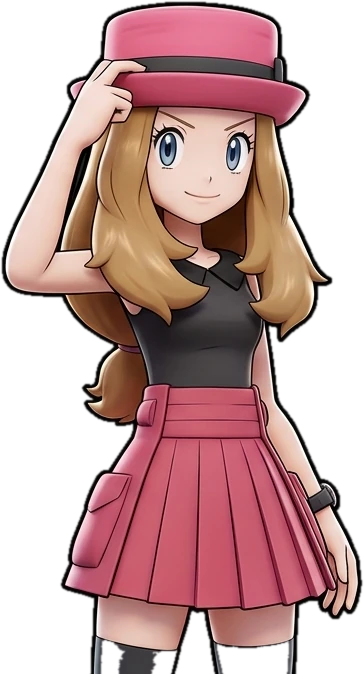
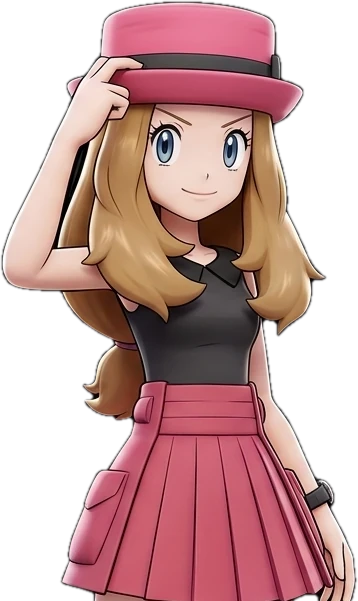
App: ritocchi Home e Box (allenatori senza bordo, via frecce e sottotitoli, swipe, colore per formato)
- Allenatori della scena TRAINERS: tolto il contorno nero spesso, più simili ai Pokémon.
- Tag delle tessere della Home: via la freccina; via il sottotitolo sotto il tag.
- Nastro delle stagioni: solo il nome, che va a capo se serve.
- Swipe della Home: touch-action none (il browser non si prende più il gesto se il dito
  parte un po' storto) e gli scatti veloci contano anche se corti.
- Box: il clic sulla tessera di un Pokémon apre il team, il Pokémon solo dal dettaglio del
  team; i badge del team non aprono niente. Ogni formato ha il suo colore di contorno e
  sfumature della card.

Claude-Session: https://claude.ai/code/session_01G7sYikhG7HEY1A3mUCTzFw

diff --git a/docs/app-menu.css b/docs/app-menu.css
@@ -81,7 +81,7 @@ html.app .gx-st-closed { --s: #c9b8ff; }
 html.app .gx-pallino { flex: none; width: calc(10 * var(--u)); height: calc(10 * var(--u)); border-radius: 50%; background: #ea1818; border: calc(2 * var(--u)) solid var(--gx-ink); animation: gx-lampeggia 1.2s ease-in-out infinite; }
 html.app .gx-st-closed .gx-pallino { background: #8a7ad0; animation: none; }
 html.app .gx-st-testi { flex: 1 1 auto; min-width: 0; display: flex; flex-direction: column; gap: calc(1 * var(--u)); }
-html.app .gx-st-testi b { font: 900 calc(12.5 * var(--u))/1.1 var(--gx-font); text-transform: uppercase; letter-spacing: .04em; overflow: hidden; text-overflow: ellipsis; white-space: nowrap; }
+html.app .gx-st-testi b { font: 900 calc(12.5 * var(--u))/1.1 var(--gx-font); text-transform: uppercase; letter-spacing: .04em; overflow-wrap: anywhere; }
 html.app .gx-st-testi small { font: 700 calc(9 * var(--u))/1.15 var(--gx-font-testo); overflow: hidden; text-overflow: ellipsis; white-space: nowrap; }
 html.app .gx-stagione em { flex: none; padding: calc(5 * var(--u)) calc(9 * var(--u)) calc(3 * var(--u)); background: #000; color: #fff; border-radius: calc(6 * var(--u)); font: 900 calc(10.5 * var(--u))/1 var(--gx-font); font-style: normal; letter-spacing: .08em; }
 html.app .gx-st-open em { animation: gx-pulsa 1.1s ease-in-out infinite; }
@@ -121,11 +121,10 @@ html.app .gx-immagine[hidden] { display: none; }
 
 /* ----- il nome della scena: un grande tag storto che brilla, in basso al centro, con la riga sotto ----- */
 html.app .gx-blocco { position: absolute; left: calc(238 * var(--u)); right: 0; bottom: calc(14 * var(--u)); z-index: 5; display: flex; flex-direction: column; align-items: center; gap: calc(6 * var(--u)); pointer-events: none; }
-html.app .gx-tag { position: relative; display: block; overflow: hidden; padding: calc(5 * var(--u)) calc(40 * var(--u)) calc(3 * var(--u)) calc(30 * var(--u)); color: #000; border: calc(5 * var(--u)) solid var(--gx-ink); border-radius: calc(7 * var(--u)); transform: skewX(-9deg) rotate(-1.5deg);
+html.app .gx-tag { position: relative; display: block; overflow: hidden; padding: calc(5 * var(--u)) calc(30 * var(--u)) calc(3 * var(--u)) calc(30 * var(--u)); color: #000; border: calc(5 * var(--u)) solid var(--gx-ink); border-radius: calc(7 * var(--u)); transform: skewX(-9deg) rotate(-1.5deg);
     background: linear-gradient(180deg, color-mix(in srgb, var(--c) 52%, #fff) 0%, var(--c) 52%, color-mix(in srgb, var(--c) 74%, #000) 100%);
     box-shadow: 0 calc(7 * var(--u)) 0 var(--gx-ink), 0 0 calc(34 * var(--u)) color-mix(in srgb, var(--c) 75%, transparent), inset 0 calc(4 * var(--u)) 0 rgba(255, 255, 255, .55); }
 html.app .gx-tag span { display: block; transform: skewX(9deg); font: 900 calc(40 * var(--u))/1.04 var(--gx-font); letter-spacing: .12em; text-transform: uppercase; text-shadow: 0 calc(3 * var(--u)) 0 rgba(255, 255, 255, .55); }
-html.app .gx-tag::after { content: '\25B6'; position: absolute; right: calc(12 * var(--u)); top: 50%; translate: 0 -48%; transform: skewX(9deg); font-size: calc(15 * var(--u)); animation: gx-lampeggia 1.2s ease-in-out infinite; }
 html.app .gx-tag::before { content: ''; position: absolute; top: 0; bottom: 0; left: 0; width: 38%; background: linear-gradient(100deg, transparent, rgba(255, 255, 255, .6), transparent); animation: gx-brilla 3.6s ease-in-out infinite; }
 @keyframes gx-brilla { 0%, 70% { translate: -120% 0; } 100% { translate: 290% 0; } }
 html.app .gx-sotto { padding: calc(3 * var(--u)) calc(14 * var(--u)) calc(2 * var(--u)); background: rgba(8, 6, 26, .66); border: calc(2 * var(--u)) solid rgba(255, 255, 255, .22); border-radius: calc(8 * var(--u)); font: 800 calc(11 * var(--u))/1.4 var(--gx-font); letter-spacing: .12em; text-transform: uppercase; white-space: nowrap; }

diff --git a/docs/app-carosello.js b/docs/app-carosello.js
@@ -16,6 +16,8 @@
     'use strict';
 
     const SOGLIA_GESTO = 36;        // pixel di spostamento di lato che contano come "ho scorso"
+    const SOGLIA_SCATTO = 14;       // pixel minimi di uno scatto veloce
+    const VELOCITA_SCATTO = 0.35;   // px per ms: sopra, il gesto è uno scatto
     const SOGLIA_CLIC = 8;          // sotto questa distanza un tocco è un tocco, non un trascinamento
     const PREVALENZA = 1.2;         // un gesto è "di lato" se lo spostamento orizzontale supera quello verticale di questo fattore
 
@@ -114,7 +116,9 @@
     /**
      * Cosa vuol dire un gesto: +1 avanti (il dito va a sinistra), -1 indietro (il dito va a destra), 0 niente (troppo corto, o più in verticale che di lato).
      */
-    function gesto(dx, dy, soglia = SOGLIA_GESTO) {
+    function gesto(dx, dy, soglia = SOGLIA_GESTO, ms = 0) {
+        // uno scatto veloce conta anche se corto (un colpo di dito, non un trascinamento lento)
+        if (ms > 0 && Math.abs(dx) >= SOGLIA_SCATTO && Math.abs(dx) / ms >= VELOCITA_SCATTO) soglia = Math.min(soglia, SOGLIA_SCATTO);
         if (Math.abs(dx) < soglia) return 0;
         if (Math.abs(dx) < Math.abs(dy) * PREVALENZA) return 0;
         return dx < 0 ? 1 : -1;
@@ -126,13 +130,13 @@
      * Scorrere in verticale resta alla pagina (touch-action: pan-y). Un trascinamento non fa scattare il clic che lo chiude.
      * Restituisce { stacca } per toglierli.
      */
-    function collegaGesti(el, { avanti, indietro, soglia = SOGLIA_GESTO, ignora, trascina, passoPx } = {}) {
+    function collegaGesti(el, { avanti, indietro, soglia = SOGLIA_GESTO, ignora, trascina, passoPx, senzaScorrimento } = {}) {
         let inizio = null, mosso = false, orizzontale = false;
         const passoVero = () => (typeof passoPx === 'function' ? passoPx() : passoPx) || 0;
         const giu = e => {
             if (e.pointerType === 'mouse' && e.button !== 0) return;
             if (ignora && e.target && e.target.closest && e.target.closest(ignora)) { inizio = null; return; }      // es. i cursori: lì il dito serve a loro
-            inizio = { x: e.clientX, y: e.clientY };
+            inizio = { x: e.clientX, y: e.clientY, t: Date.now() };
             mosso = false;
             orizzontale = false;
         };
@@ -149,8 +153,9 @@
         const su = e => {
             if (!inizio) return;
             const dx = e.clientX - inizio.x, dy = e.clientY - inizio.y;
+            const inizio0 = inizio;
             inizio = null;
-            const g = gesto(dx, dy, soglia);
+            const g = gesto(dx, dy, soglia, Date.now() - (inizio0 ? inizio0.t : Date.now()));
             // prima si smette di seguire il dito (gli elementi tornano al loro posto con la transizione), poi si cambia: finiscono dove devono, senza salti
             if (orizzontale && trascina) trascina(0, true);
             orizzontale = false;
@@ -165,7 +170,7 @@
         el.addEventListener('pointerup', su);
         el.addEventListener('pointercancel', annulla);
         el.addEventListener('click', clic, true);
-        if (el.style) el.style.touchAction = 'pan-y';
+        if (el.style) el.style.touchAction = senzaScorrimento ? 'none' : 'pan-y';     // dove la pagina non scorre (la Home) il browser non deve mai prendersi il gesto: un dito un po' storto in verticale lo annullava
         return {
             stacca() {
                 el.removeEventListener('pointerdown', giu);

diff --git a/docs/box.html b/docs/box.html
@@ -901,6 +901,13 @@ function formattaEffettoNatura(natura) {
 }
 
 async function renderizza(lista) {
+    // Ogni formato ha il suo colore (lo stesso per tutti i suoi team: contorno e sfumature della card nell'app), ricavato dal nome del formato
+    const coloreFormato = formato => {
+        const palette = ['#ffbd44', '#6fa8ff', '#ff7b6b', '#b388eb', '#47ea6a', '#ff93c8', '#3fd6d0', '#f5e04a'];
+        let h = 0;
+        for (const c of String(formato || '').toLowerCase().trim()) h = (h * 31 + c.charCodeAt(0)) >>> 0;
+        return palette[h % palette.length];
+    };
     await caricaTeamBloccati();
     const grid = document.getElementById('teamsGrid');
     if (!grid) return;
@@ -947,13 +954,13 @@ async function renderizza(lista) {
             `<div class="card-winrate" title="${percentualeTeam}% of matches won"><span style="width:${percentualeTeam}%"></span><b>${percentualeTeam}% wins</b></div>`;
 
         return `
-        <div class="card" style="--i: ${posizione};" onclick="apriDettagli('${team.id}')">
+        <div class="card" style="--i: ${posizione}; --cc: ${coloreFormato(team.category || team.categoria || 'VGC')};" onclick="apriDettagli('${team.id}')">
             <div class="card-header">
                 <span class="category">${team.category || team.categoria || 'VGC'}</span>
 
                 ${htmlAzioni}
 
-                <span class="bt-card" data-team-badge="${team.id}"></span>
+                <span class="bt-card" data-team-badge="${team.id}" onclick="event.stopPropagation()"></span>
                 <span class="stats">W: ${team.vittorie || 0} / L: ${team.sconfitte || 0}</span>
             </div>
             <h3>${team.nome || 'No teams yet'}</h3>
@@ -979,8 +986,7 @@ async function renderizza(lista) {
                     }, 50);
 
                     return `
-                        <div class="pkm-box" id="${pkmBoxId}"${window.coloriPokemonNoti && window.coloriPokemonNoti[nomePkm] ? ` style="--tipo: ${window.coloriPokemonNoti[nomePkm]}; --tipo2: ${(window.coloriPokemonNoti2 || {})[nomePkm] || window.coloriPokemonNoti[nomePkm]};"` : ''}
-                             onclick="event.stopPropagation(); preparaAperturaPkm('${team.id}', ${index}, '${pkmNameUrl}')">
+                        <div class="pkm-box" id="${pkmBoxId}"${window.coloriPokemonNoti && window.coloriPokemonNoti[nomePkm] ? ` style="--tipo: ${window.coloriPokemonNoti[nomePkm]}; --tipo2: ${(window.coloriPokemonNoti2 || {})[nomePkm] || window.coloriPokemonNoti[nomePkm]};"` : ''}>
                             <div class="pkm-sprite-container">
                                 <img src="${pkmSprite}" class="pkm-sprite" onerror="gestisciErroreSprite(this, '${pkmNameUrl.toLowerCase()}', '${SpritePkm.id(nomePkm)}')">
                                 </div>

diff --git a/docs/app-menu.js b/docs/app-menu.js
@@ -138,7 +138,7 @@
         const sc = S.SCENE[v.id] || { cielo: 'cielo-blu', eroi: [], sotto: '' };
         return '<a class="gx-carta gx-c-' + esc(v.id) + '" href="' + esc(v.href) + '" data-i="' + indice + '" data-id="' + esc(v.id) + '" style="--c:' + esc(v.colore) + '" data-suono="scegli">' +
             S.htmlScena(sc, { indice, scintille: SCINTILLE, escF: esc, immagine: '<img class="gx-immagine" data-id="' + esc(v.id) + '"' + (sc.arte ? ' data-arte="' + esc(sc.arte) + '"' : '') + (sc.bordo ? ' data-bordo' : '') + ' alt="' + esc(sc.alt || '') + '" hidden>' }) +
-            '<span class="gx-blocco"><b class="gx-tag"><span>' + esc(v.et) + '</span></b><small class="gx-sotto">' + esc(sc.sotto) + '</small></span></a>';
+            '<span class="gx-blocco"><b class="gx-tag"><span>' + esc(v.et) + '</span></b></span></a>';
     }
 
     /** Gli indirizzi da provare, in ordine, per l'immagine di una scena */
@@ -235,7 +235,7 @@
             };
             // si scorre da qualunque punto dello schermo (anche sopra il giocatore), non solo sulla scena
             Car.collegaGesti($('gx-lobby') || $('gx-tessere'), {
-                avanti: () => passo(1), indietro: () => passo(-1), passoPx: () => doc.documentElement.clientWidth || 740 * Car.unitaPx(win), trascina: segui
+                avanti: () => passo(1), indietro: () => passo(-1), passoPx: () => doc.documentElement.clientWidth || 740 * Car.unitaPx(win), trascina: segui, senzaScorrimento: true
             });
             $('gx-tessere').addEventListener('click', e => {
                 const c = e.target.closest ? e.target.closest('.gx-carta') : null;
@@ -353,7 +353,7 @@
             if (!st) return '';
             const s = riassuntoStagione(st, !!giocatore && giaIscritto(st.iscritti, giocatore.id));
             const punti = stagioni.length > 1 ? '<span class="gx-st-punti" aria-hidden="true">' + stagioni.map((x, k) => '<i' + (k === indiceNastro % stagioni.length ? ' class="su"' : '') + '></i>').join('') + '</span>' : '';
-            return '<a class="gx-stagione gx-st-' + s.stato + '" href="' + esc(s.href) + '" data-suono="scegli"><i class="gx-pallino"></i><span class="gx-st-testi"><b>' + esc(s.nome) + '</b><small>' + esc(s.testo) + '</small></span>' + punti + '<em>' + esc(s.azione) + '</em></a>';
+            return '<a class="gx-stagione gx-st-' + s.stato + '" href="' + esc(s.href) + '" data-suono="scegli"><i class="gx-pallino"></i><span class="gx-st-testi"><b>' + esc(s.nome) + '</b></span>' + punti + '<em>' + esc(s.azione) + '</em></a>';
         };
         const pannelloGiocatore = () => {
             const nastro = '<div class="gx-nastro" id="gx-nastro">' + htmlNastro() + '</div>';

diff --git a/test/app-menu.test.js b/test/app-menu.test.js
@@ -174,7 +174,7 @@ test('le scene del menù: una per voce, con il tag in basso al centro e la riga 
     assert.match(h, /<img class="gx-immagine" data-id="box" alt="" hidden><span class="gx-vignetta"/);
     // Play ha la sua immagine già pronta (si cerca dopo la tua, tessera-play)
     assert.match(M.htmlCarta(A.VOCI[0], 0, C.esc), /<img class="gx-immagine" data-id="play" data-arte="immagini\/app\/scena-play\.webp" data-bordo alt="Mega Charizard Y and Mega Lucario face off" hidden>/);
-    assert.match(h, /<span class="gx-blocco"><b class="gx-tag"><span>Box<\/span><\/b><small class="gx-sotto">Your teams &amp; Pokémon<\/small><\/span><\/a>$/);
+    assert.match(h, /<span class="gx-blocco"><b class="gx-tag"><span>Box<\/span><\/b><\/span><\/a>$/);
 
     const css = docs('app-menu.css');
     assert.doesNotMatch(css, /@@/, 'nessun segnaposto rimasto nel foglio');
@@ -342,7 +342,7 @@ test('le scene: una per voce del gioco, nell\'ordine, con link, colore, immagine
         assert.equal(t[3], String(i));
         assert.equal(t[4], v.id);
         assert.equal(t[5], v.colore);
-        assert.match(t[6], new RegExp(`^<span class="gx-sf"><span class="gx-cielo cielo-[a-z]+" aria-hidden="true"></span>[\\s\\S]*<img class="gx-immagine" data-id="${v.id}"[^>]* hidden><span class="gx-vignetta" aria-hidden="true"></span></span><span class="gx-blocco"><b class="gx-tag"><span>${v.et}</span></b><small class="gx-sotto">[^<]+</small></span>$`));
+        assert.match(t[6], new RegExp(`^<span class="gx-sf"><span class="gx-cielo cielo-[a-z]+" aria-hidden="true"></span>[\\s\\S]*<img class="gx-immagine" data-id="${v.id}"[^>]* hidden><span class="gx-vignetta" aria-hidden="true"></span></span><span class="gx-blocco"><b class="gx-tag"><span>${v.et}</span></b></span>$`));
     });
     const el = p.id('gx-tessere').querySelectorAll('.gx-carta');
     assert.equal(el.length, A.VOCI.length);
@@ -651,7 +651,7 @@ test('la stagione del momento: il nastro sotto il giocatore, col tempo che manca
     await passaUnGiro(); await passaUnGiro(); await passaUnGiro();
     const g = p.id('gx-giocatore').innerHTML;
     assert.match(g, /<a class="gx-stagione gx-st-open" href="hub\.html\?id=s2" data-suono="scegli">/);
-    assert.match(g, /<b>Spring Cup<\/b><small>Sign-ups close in 2d 1h<\/small>/);
+    assert.match(g, /<b>Spring Cup<\/b><\/span>/);
     assert.match(g, /<em>JOIN<\/em>/);
     // il conto alla rovescia si aggiorna da solo, ogni mezzo minuto
     assert.equal(p.intervalli.length, 2);

diff --git a/test/box-team.test.js b/test/box-team.test.js
@@ -101,8 +101,8 @@ const squadra = (id, nome, v, s, pokemon = ['Calyrex-Shadow', 'Clefairy']) => ({
 
 test('renderizza: finestrella per team con striscia, azioni, bilancio, barra delle vittorie e le tessere dei Pokémon', async () => {
     const { html, griglia } = await eseguiRenderizza([squadra('t1', 'Martiri', 9, 3), squadra('t2', 'Mai giocato', 0, 0)]);
-    assert.equal((html.match(/<div class="card" style="--i: \d+;"/g) || []).length, 2);
-    assert.match(html, /style="--i: 0;"[\s\S]*style="--i: 1;"/, 'posizione di ogni card, per l\'entrata a cascata');
+    assert.equal((html.match(/<div class="card" style="--i: \d+; --cc: #[0-9a-f]{6};"/g) || []).length, 2);
+    assert.match(html, /style="--i: 0; --cc[^"]*"[\s\S]*style="--i: 1; --cc/, 'posizione di ogni card, per l\'entrata a cascata');
     assert.match(html, /<span class="category">VGC Reg G<\/span>/);
     assert.match(html, /<span class="stats">W: 9 \/ L: 3<\/span>/);
     // barra: 9 su 12 = 75%; il team che non ha giocato non ha barra
@@ -163,4 +163,14 @@ test('applicaColoreBordo: il primo tipo di PokéAPI diventa il colore (--tipo) d
     const t2 = { style: { props: {}, setProperty(k, v) { this.props[k] = v; } } };
     await senza('Boh', 't2');
     assert.deepEqual(t2.style.props, {});
+});
+
+test('card del team: il clic su un Pokémon apre il team (non il Pokémon: quello si apre dal dettaglio del team), i badge no; ogni formato ha il suo colore', () => {
+    const inizio = box.indexOf('async function renderizza(lista)');
+    const fn = box.slice(inizio, box.indexOf('\n}\n', inizio));
+    assert.doesNotMatch(fn, /class="pkm-box"[^>]*onclick/, 'le tessere non hanno un clic loro: sale alla card');
+    assert.doesNotMatch(fn, /preparaAperturaPkm/);
+    assert.match(fn, /<div class="card" style="--i: \$\{posizione\}; --cc: \$\{coloreFormato\(/);
+    assert.match(fn, /<span class="bt-card" data-team-badge="\$\{team\.id\}" onclick="event\.stopPropagation\(\)">/);
+    assert.match(fn, /onclick="apriDettagli\('\$\{team\.id\}'\)"/);
 });

diff --git a/docs/app-scena.css b/docs/app-scena.css
@@ -66,7 +66,7 @@ html.app .gx-c-box .e-dx { height: calc(192 * var(--u)); right: calc(-12 * var(-
 html.app .gx-c-trainers .gx-eroe { image-rendering: pixelated; filter: drop-shadow(0 calc(6 * var(--u)) 0 rgba(0, 0, 0, .35)); }
 html.app .gx-c-trainers .gx-eroe.propria { image-rendering: auto; filter: drop-shadow(0 0 calc(12 * var(--u)) rgba(255, 255, 255, .5)) drop-shadow(0 calc(8 * var(--u)) calc(6 * var(--u)) rgba(40, 0, 40, .5)); }
 html.app .gx-c-trainers .t-1 { height: calc(290 * var(--u)); left: calc(96 * var(--u)); bottom: 0; z-index: 2; }
-html.app .gx-c-trainers .t-2 { height: calc(290 * var(--u)); right: calc(96 * var(--u)); bottom: 0; z-index: 2; }
+html.app .gx-c-trainers .t-2 { height: calc(248 * var(--u)); right: calc(96 * var(--u)); bottom: 0; z-index: 2; }
 html.app .gx-c-trainers .gx-aura-l { left: calc(70 * var(--u)); bottom: calc(30 * var(--u)); width: calc(230 * var(--u)); height: calc(230 * var(--u)); background: radial-gradient(circle, rgba(255, 200, 90, .7) 0%, rgba(255, 120, 60, .3) 42%, transparent 70%); }
 html.app .gx-c-trainers .gx-aura-r { right: calc(70 * var(--u)); bottom: calc(30 * var(--u)); width: calc(230 * var(--u)); height: calc(230 * var(--u)); background: radial-gradient(circle, rgba(200, 160, 255, .7) 0%, rgba(120, 80, 255, .3) 42%, transparent 70%); }
 

diff --git a/test/app-carosello.test.js b/test/app-carosello.test.js
@@ -219,3 +219,14 @@ test('collegaGesti con trascina: il dito di lato fa seguire gli elementi, il ril
     ev.pointerup({ clientX: 290, clientY: 190 });
     assert.deepEqual(chiamate, []);
 });
+
+test('gesto: uno scatto veloce conta anche se corto (un colpo di dito), uno lento e corto no; la Home non lascia il gesto al browser (touch-action: none)', () => {
+    const K = require('../docs/app-carosello.js');
+    assert.equal(K.gesto(-20, 0), 0, 'corto e senza velocità: niente');
+    assert.equal(K.gesto(-20, 0, 36, 40), 1, '20 px in 40 ms: scatto');
+    assert.equal(K.gesto(20, 2, 36, 40), -1);
+    assert.equal(K.gesto(-20, 0, 36, 400), 0, '20 px in 400 ms: lento');
+    assert.equal(K.gesto(-8, 0, 36, 10), 0, 'troppo corto anche se veloce');
+    assert.equal(K.gesto(-20, 30, 36, 40), 0, 'più in verticale che di lato');
+    assert.match(require('node:fs').readFileSync(require('node:path').join(__dirname, '..', 'docs', 'app-menu.js'), 'utf8'), /trascina: segui, senzaScorrimento: true/);
+});
